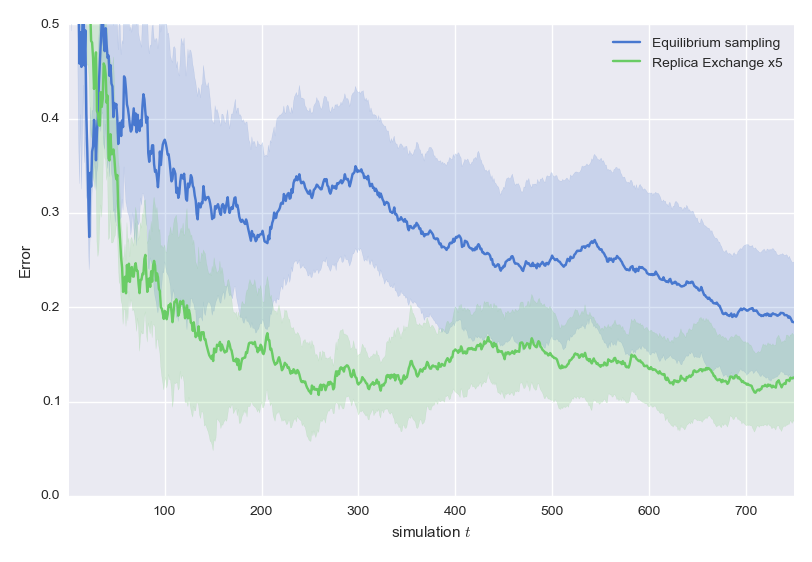
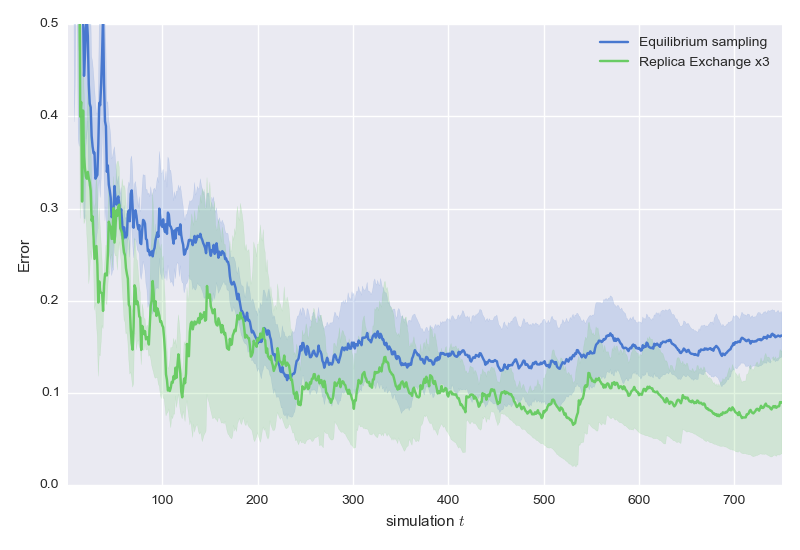
Changed documentation a bit, and the replica exchange temps.

diff --git a/MODELS/double_well/src/plots_results.py b/MODELS/double_well/src/plots_results.py
@@ -5,7 +5,7 @@ import glob
 
 results_list = ["results/equilibrium_EnergyBarrier*",
                 "results/replicaEx_EnergyBarrier**",]
-labels_list  = ["Equilibrium sampling", "Replica Exchange x5"]
+labels_list  = ["Equilibrium sampling", "Replica Exchange x3"]
 
 color_list   = sns.color_palette("muted", len(results_list))
 
@@ -21,12 +21,15 @@ for c,label,phrase in zip(color_list,
     time = raw_data[0,:, 0] * .001 # (manual correction)
 
     sns.tsplot(err,time, color=c, condition=label)
+    #for item in err:
+    #    plt.plot(time, item,color=c)
 
 plt.ylim(0,0.5)
 plt.legend(loc="best")
 plt.xlabel(r"simulation $t$")
 plt.ylabel(r"Error")
 plt.tight_layout()
+plt.savefig("figures/convergence_EnergyBarrier.png")
 plt.show()
 
                

diff --git a/MODELS/double_well/README.md b/MODELS/double_well/README.md
@@ -32,13 +32,19 @@ Given a histogram H(x), that records the number of visits to each state one can 
 
 <p align="center" class="mdequation"><img src=".equations/85b3044977c3d55392496cd69131615af66aca3d41af7c3d9981ddd0c6447e8e.png" alt="$V(x) \approx -kT \log( H(x) ) $" /></p>
 
-The histogram can be a simple bin, or alternatively one can use a kernel density estimation on the entire trajectory.
+The histogram can be a simple bin, or alternatively one can use a kernel density estimation on the entire trajectory. For now, we used a binned histogram for the computations.
 
 #### Results: Energy Barrier
 
 The results of the sampling algorithms are shown below:
 
 ![](figures/convergence_EnergyBarrier.png)
+
+After running the simulations, this plot can be reproduced by running
+
+    python src/plots_results.py
+
+Note: This does not properly scale the time needed for replica exchange yet.
 
 **Sampling Algorithm**: [Equilibrium](alg_EnergyBarrier_equilibrium.py)
 
@@ -52,7 +58,11 @@ The simulation can be repeated by running:
 
     python alg_EnergyBarrier_equilibrium.py simulation_setups/equilibrium_EnergyBarrier.json
 
-Where the configuration file [`equilibrium_EnergyBarrier.json`](simulation_setups/equilibrium_EnergyBarrier.json) is given by:
+or simply:
+
+    make sim_equilibrium
+
+The configuration file [`equilibrium_EnergyBarrier.json`](simulation_setups/equilibrium_EnergyBarrier.json) sets the system parameters:
 
 ```JSON
 {
@@ -77,17 +87,23 @@ Where the configuration file [`equilibrium_EnergyBarrier.json`](simulation_setup
 }
 ```
 
+With `show_plot` set to `true` the trajectory plot above is reproduced. 
+
 **Sampling Algorithm**: [Replica Exchange](alg_EnergyBarrier_replicaEx.py)
 
 The simulation can be repeated by running:
 
     python alg_EnergyBarrier_replicaEx.py simulation_setups/replicaEx_EnergyBarrier.json
 
+or the shortcut
+
+    make sim_replicaEx
+
 In addition to the parameters set by the equilibrium sampling algorithm, the configuration file [`replicaEx_EnergyBarrier.json`](simulation_setups/replicaEx_EnergyBarrier.json) highlights two new options available:
 
 ```JSON
 {
-    "kT_list" : [0.8,0.9,1,1.1,1.2],
+    "kT_list" : [0.2,0.5,1.5],
     "exchange_steps" : 30000,
 }
 ```

diff --git a/README.md b/README.md
@@ -10,6 +10,14 @@ Please comment and suggest improvements to this model:
 
 ## [Double well](MODELS/double_well)
 
+To get started, clone the repository, move the the double well directory and run the example.
+
+    git clone https://github.com/thoppe/Benchmarks-in-Sampling-Algorithms.git
+    cd Benchmarks-in-Sampling-Algorithms.git
+    cd MODELS
+    cd double_well
+    make sim_example
+    
 -----------------------------------------
 
 

diff --git a/MODELS/double_well/trajectory/README.md b/MODELS/double_well/trajectory/README.md
@@ -1,0 +1,1 @@
+Trajectory data is stored here.
